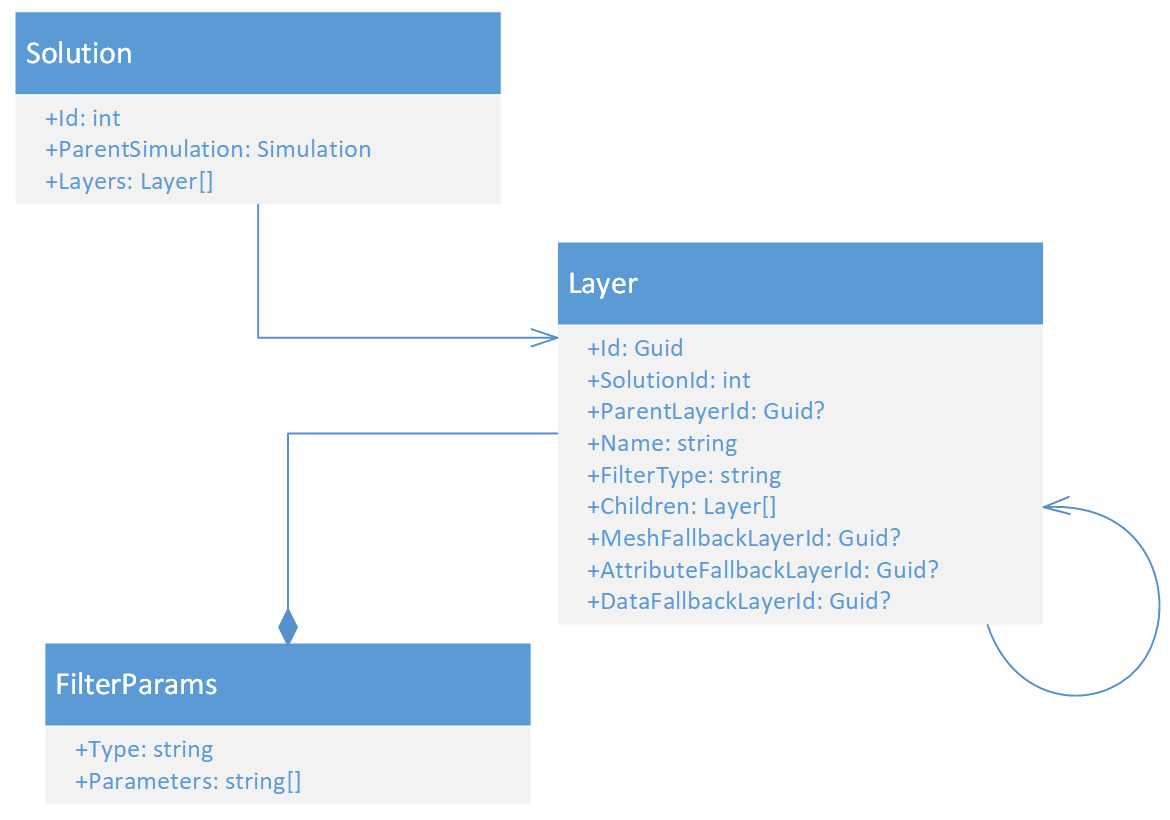
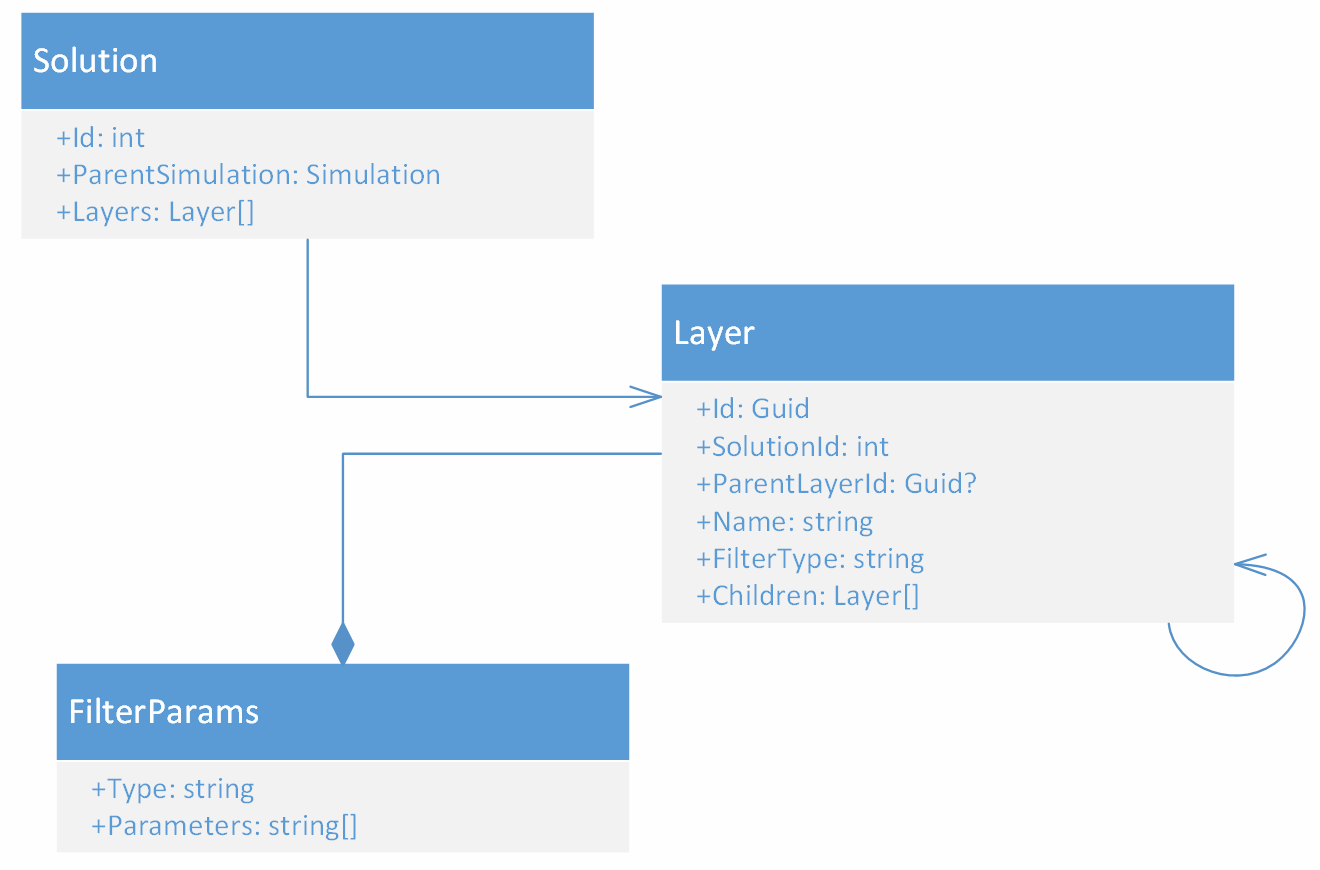
Update Figure results-class-diagram

diff --git a/chapters/3-data-management.tex b/chapters/3-data-management.tex
@@ -292,11 +292,11 @@ One of the key features of a post-processor is the ability to map a data value, 
 
 Figure \ref{fig:results-class-diagram} ...
 
-% TODO: do results class diagramu pridat pole FallBackLayerId a pak ho v textu popsat: Summary document muze take volitelne obsahovat property MeshFallbackLayerId, AttributeFallbackLayerId, a DataFallbackLayerId - vyuzito napr pro deformacni vrstvu - nemusi se kopirovat data
+% TODO: results class diagram bude popisovat objektovou reprezentaci Solution - obvykle je to json soubor na lokalnim ulozisti, nebo muze byt v relacni databazi napojeny na Projekt, Simulation a User.
 
 \begin{figure}[H]
     \centering
-    \includegraphics[width=0.7\textwidth]{figures/chapter-data-management/results-class-diagram}
+    \includegraphics[width=0.6\textwidth]{figures/chapter-data-management/results-class-diagram}
     \decoRule
     \caption{Class diagram of results representation}
     \label{fig:results-class-diagram}
